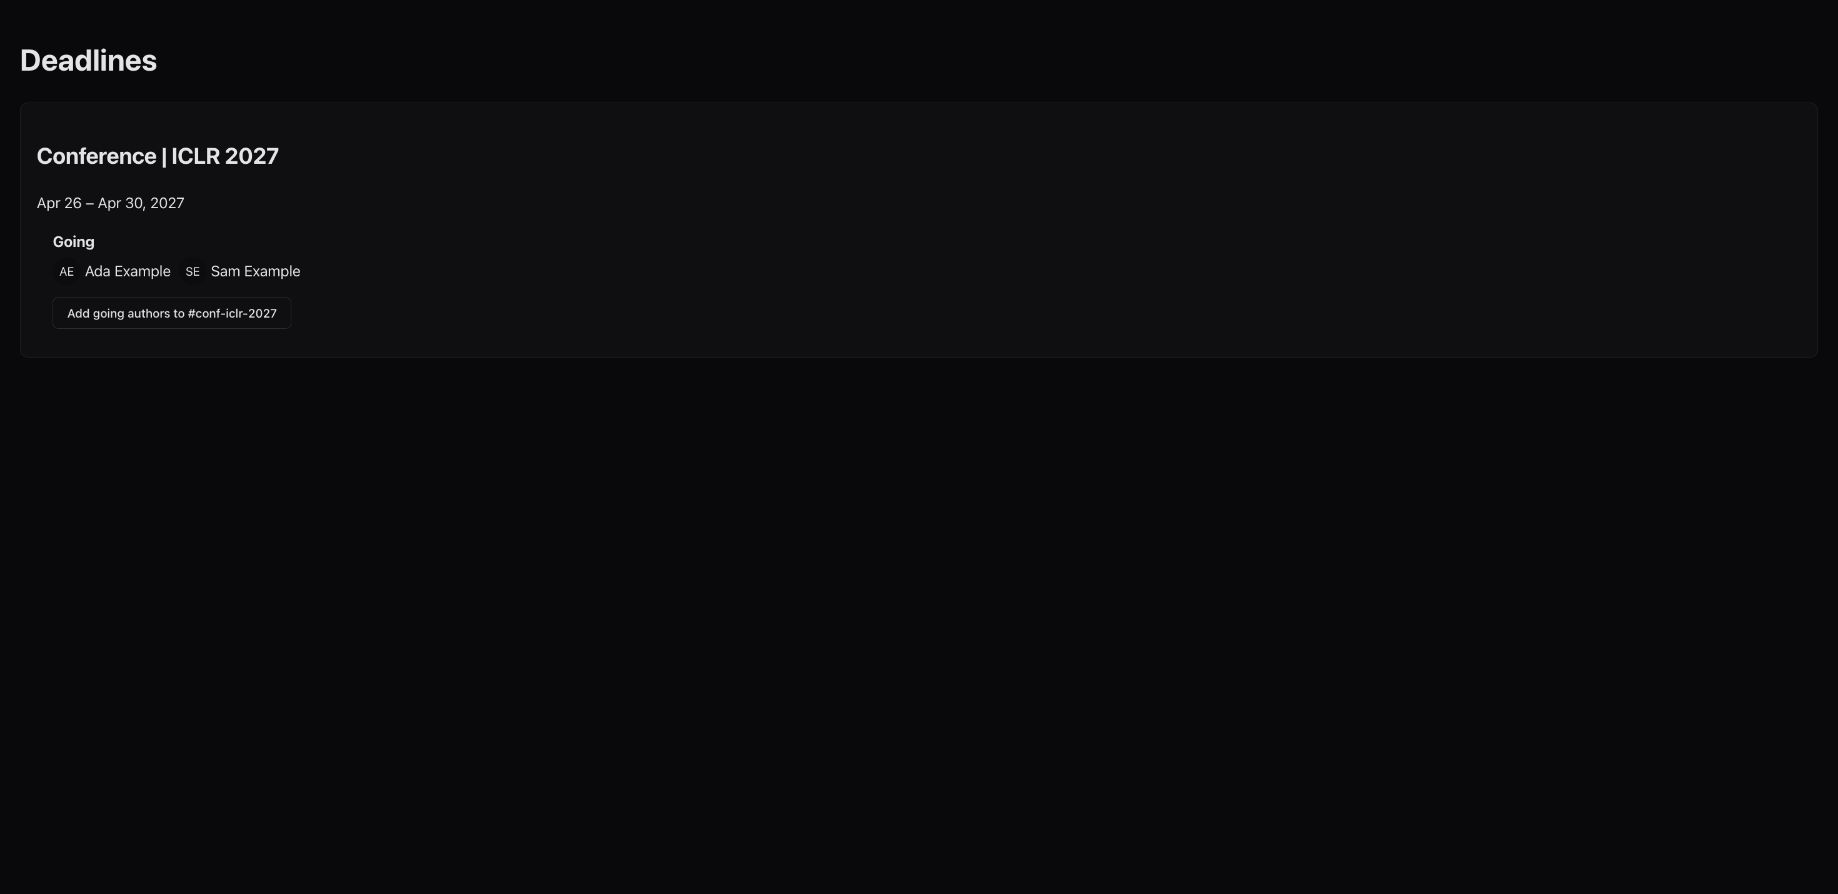
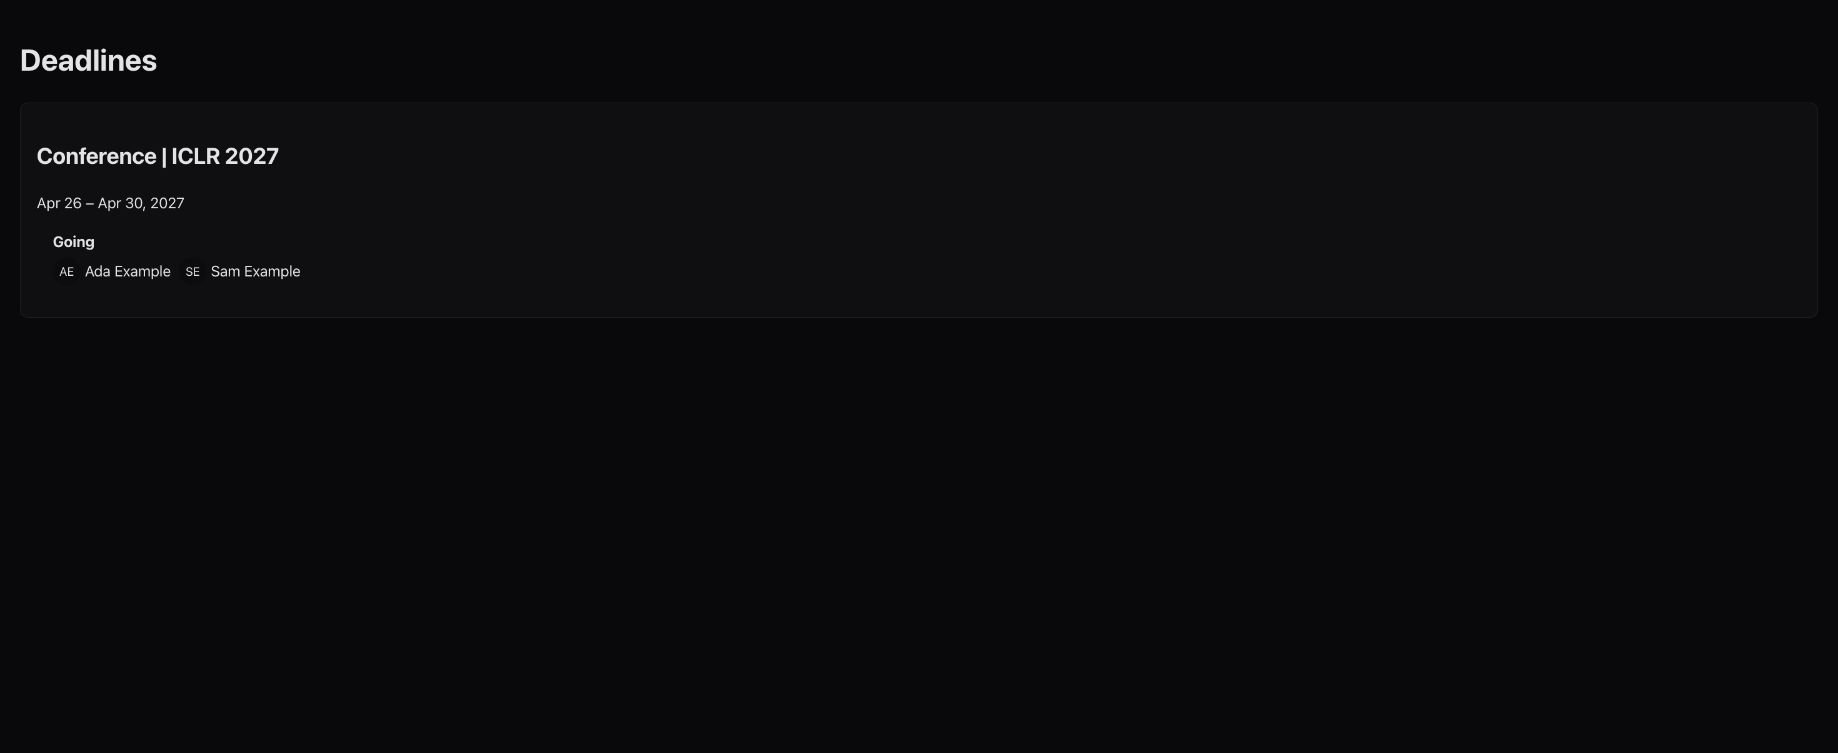
feat(adminbot): automatically invite accepted conference attendees

Changed region(s): [[0.0, 0.1527, 0.1551, 0.3665], [0.0, 0.0611, 0.093, 0.0916], [0.124, 0.2749, 0.1551, 0.3054]]

diff --git a/openclaw-adminbot/extensions/adminbot/src/kernel/service.paper-slots.test.ts b/openclaw-adminbot/extensions/adminbot/src/kernel/service.paper-slots.test.ts
@@ -2,7 +2,7 @@
 // what the global nudge actually sends.
 //
 // Its own file rather than more of service.test.ts, which is already the longest in the extension.
-import { describe, expect, it } from "vitest";
+import { describe, expect, it, vi } from "vitest";
 import { AdminBotService } from "./service.js";
 
 function unwrap<T>(
@@ -508,6 +508,11 @@ describe("the conference roll-call", () => {
         }),
       );
     }
+    await vi.waitFor(() =>
+      expect(deliveries.filter((entry) => entry.type === "slack.invite_to_channel")).toHaveLength(
+        2,
+      ),
+    );
     const rosters = unwrap(service.listConferenceRosters()).conferences;
     for (const roster of rosters)
       expect(unwrap(await service.inviteConferenceAttendees(roster.key))).toMatchObject({
@@ -519,13 +524,73 @@ describe("the conference roll-call", () => {
       deliveries
         .filter((entry) => entry.type === "slack.invite_to_channel")
         .map((entry) => entry.proposed_payload),
-    ).toEqual([
-      { channel: "conf-iclr-2027", user_id: "U-ADA" },
-      { channel: "conf-emnlp-2026", user_id: "U-ADA" },
-    ]);
+    ).toEqual(
+      expect.arrayContaining([
+        { channel: "conf-iclr-2027", user_id: "U-ADA" },
+        { channel: "conf-emnlp-2026", user_id: "U-ADA" },
+      ]),
+    );
     await service.inviteConferenceAttendees(rosters[0].key);
     expect(deliveries.filter((entry) => entry.type === "slack.invite_to_channel")).toHaveLength(2);
     expect((await service.inviteConferenceAttendees("missing:2026")).ok).toBe(false);
+  });
+
+  it("automatically invites when acceptance follows Going and keeps save failures separate", async () => {
+    const deliveries: unknown[] = [];
+    const service = new AdminBotService(undefined, {
+      executor: {
+        execute: async (proposal) => {
+          deliveries.push(proposal.proposed_payload);
+          throw new Error("Slack unavailable");
+        },
+      },
+    });
+    seed(service);
+    const paper = unwrap(
+      service.upsertPaper({
+        id: "auto",
+        title: "Synthetic",
+        authors: ["Ada Lovelace"],
+        author_links: [{ name: "Ada Lovelace", member_id: "ada" }],
+        current_step: "overleaf_writing",
+        first_author_member_id: "ada",
+      }),
+    );
+    unwrap(
+      service.setConferenceAttendee({
+        paperId: paper.id,
+        name: "Ada Lovelace",
+        memberId: "ada",
+        attending: "yes",
+        actorId: "ada",
+        privileged: false,
+      }),
+    );
+    expect(deliveries).toHaveLength(0);
+    const accepted = {
+      ...paper,
+      venue_decision: "accept" as const,
+      accepted_venue: "EMNLP",
+      accepted_year: 2026,
+      is_archival: true,
+      presentation_type: "poster" as const,
+    };
+    expect(service.upsertPaper(accepted).ok).toBe(true);
+    await vi.waitFor(() =>
+      expect(deliveries).toEqual([{ channel: "conf-emnlp-2026", user_id: "U-ADA" }]),
+    );
+    expect(service.upsertPaper(accepted).ok).toBe(true);
+    unwrap(
+      service.setConferenceAttendee({
+        paperId: paper.id,
+        name: "Ada Lovelace",
+        memberId: "ada",
+        attending: "no",
+        actorId: "ada",
+        privileged: false,
+      }),
+    );
+    expect(deliveries).toHaveLength(1);
   });
 
   it("puts every author on the card before anybody has been added by hand", () => {

diff --git a/openclaw-adminbot/ui/src/ui/adminbot/views/deadlines.ts b/openclaw-adminbot/ui/src/ui/adminbot/views/deadlines.ts
@@ -10,7 +10,6 @@ import {
   resolveAdminBotBaseUrl,
   loadStoredMemberSession,
   fetchConferenceRosters,
-  inviteConferenceAttendees,
   type ConferenceRoster,
 } from "../auth/session.ts";
 import {
@@ -1157,13 +1156,10 @@ class AdminbotDeadlinesView extends LitElement {
   private conferenceRosters: ConferenceRoster[] = [];
   private conferenceLoad = 0;
   private conferenceError = "";
-  private conferenceBusy = "";
-  private conferenceNotice = new Map<string, string>();
   private async loadConferenceRosters() {
     const generation = ++this.conferenceLoad;
     this.conferenceRosters = [];
     this.conferenceError = "";
-    this.conferenceNotice.clear();
     const token = loadStoredMemberSession()?.sessionToken;
     if (this.accessRole !== "admin" || !token) {
       this.requestUpdate();
@@ -1179,26 +1175,6 @@ class AdminbotDeadlinesView extends LitElement {
       this.conferenceError =
         "Conference attendance is unavailable. Check the backend release and connection.";
     this.requestUpdate();
-  }
-  private async addConferenceAuthors(key: string) {
-    const token = loadStoredMemberSession()?.sessionToken;
-    if (this.accessRole !== "admin" || !token || this.conferenceBusy) return;
-    this.conferenceBusy = key;
-    this.requestUpdate();
-    try {
-      const result = await inviteConferenceAttendees(token, this.conferenceBaseUrl, key);
-      this.conferenceNotice.set(
-        key,
-        result.ok
-          ? `${result.value.invited} invited · ${result.value.skipped} skipped · ${result.value.failed} failed`
-          : "Invites failed. Check the action audit and channel access before retrying.",
-      );
-    } catch {
-      this.conferenceNotice.set(key, "Invites failed. Check the action audit before retrying.");
-    } finally {
-      this.conferenceBusy = "";
-      this.requestUpdate();
-    }
   }
   accessRole: AccessRole = "anonymous";
   memberId = "";
@@ -3330,14 +3306,7 @@ class AdminbotDeadlinesView extends LitElement {
                 )}</span
               >
             </button>
-            ${attendance
-              ? renderConferenceAttendance(
-                  attendance,
-                  this.conferenceBusy === attendance.key,
-                  this.conferenceNotice.get(attendance.key) ?? "",
-                  () => void this.addConferenceAuthors(attendance.key),
-                )
-              : nothing}
+            ${attendance ? renderConferenceAttendance(attendance) : nothing}
             <div class="deadline-group__panel" id=${panelId} ?hidden=${!open}>
               ${notificationPolicy
                 ? html`<p class="deadline-group__shared-policy">

diff --git a/openclaw-adminbot/ui/src/ui/adminbot/views/deadlines.conference.test.ts b/openclaw-adminbot/ui/src/ui/adminbot/views/deadlines.conference.test.ts
@@ -5,7 +5,7 @@ import type { DeadlineVenue } from "../data/deadlines.ts";
 import { conferenceRosterFor, renderConferenceAttendance } from "./deadlines.conference.ts";
 
 describe("conference deadline attendance", () => {
-  it("matches exact aliases and year and shows only going authors alongside the Slack action", () => {
+  it("matches exact aliases and year and shows only going authors without a manual Slack button", () => {
     const roster = {
       key: "iclr:2027",
       venue: "ICLR 2027",
@@ -33,24 +33,12 @@ describe("conference deadline attendance", () => {
       conferenceRosterFor([{ ...venue, venue_family: "ACL", name: "ACL 2027" }], [roster]),
     ).toBeUndefined();
     const container = document.createElement("div");
-    let invites = 0;
-    render(
-      renderConferenceAttendance(roster, false, "", () => invites++),
-      container,
-    );
+    render(renderConferenceAttendance(roster), container);
     expect(container.textContent).toContain("Ada");
     expect(container.textContent).not.toContain("Bob");
     expect(container.textContent).not.toContain("Cora");
     expect(container.textContent).not.toContain("Not confirmed");
     expect(container.textContent).not.toContain("Not going");
-    expect(container.querySelector("button")?.textContent).toContain("#conf-iclr-2027");
-    container.querySelector("button")?.click();
-    expect(invites).toBe(1);
-    render(
-      renderConferenceAttendance(roster, true, "0 invited · 1 failed", () => invites++),
-      container,
-    );
-    expect(container.querySelector("button")?.disabled).toBe(true);
-    expect(container.querySelector('[role="status"]')?.textContent).toContain("1 failed");
+    expect(container.querySelector("button")).toBeNull();
   });
 });

diff --git a/openclaw-adminbot/extensions/adminbot/src/kernel/service.ts b/openclaw-adminbot/extensions/adminbot/src/kernel/service.ts
@@ -5930,6 +5930,7 @@ export class AdminBotService {
         at: now,
       });
     }
+    this.syncConferenceChannel(stored);
     return { ok: true, status: 200, payload: stored };
   }
 
@@ -7192,6 +7193,7 @@ export class AdminBotService {
       actor: params.actorId,
       details: { paper_id: params.paperId, attending: params.attending },
     });
+    this.syncConferenceChannel(paper);
     return { ok: true, status: 200, payload: { attendee } };
   }
 
@@ -7243,7 +7245,15 @@ export class AdminBotService {
     return { ok: true, status: 200, payload: { conferences } };
   }
 
-  /** Explicit admin action; uses the existing Slack proposal/approval/execution gate. */
+  private syncConferenceChannel(paper: AdminBotPaperRecord): void {
+    const key = paperConferenceKey(paper);
+    if (!key) return;
+    // Persist the approved proposal before yielding. Slack outages must not fail a paper save;
+    // the existing action audit retains failures for retry, and execution deduplicates saves.
+    void this.inviteConferenceAttendees(key).catch(() => {});
+  }
+
+  /** Uses the existing Slack proposal/approval/execution gate. */
   async inviteConferenceAttendees(conferenceKey: string): Promise<
     AdminBotServiceResponse<{
       channel: string;

diff --git a/openclaw-adminbot/ui/src/ui/adminbot/auth/session.ts b/openclaw-adminbot/ui/src/ui/adminbot/auth/session.ts
@@ -4876,26 +4876,6 @@ export async function fetchConferenceRosters(
   return { ok: true, value: body?.conferences ?? [] };
 }
 
-export async function inviteConferenceAttendees(
-  sessionToken: string,
-  baseUrl: string,
-  key: string,
-): Promise<AuthResult<{ channel: string; invited: number; skipped: number; failed: number }>> {
-  const result = await authedJson(
-    baseUrl,
-    `/papers/conference-rosters/${encodeURIComponent(key)}/channel-invites`,
-    "POST",
-    sessionToken,
-    {},
-  );
-  if ("unreachable" in result) return { ok: false, kind: "unreachable" };
-  if (!result.response.ok) return { ok: false, ...calendarFailure(result.response, result.body) };
-  return {
-    ok: true,
-    value: result.body as { channel: string; invited: number; skipped: number; failed: number },
-  };
-}
-
 /** Not going is the absence of a row, never a value. Withdrawing deletes; see deleteConferenceTrip. */
 export type ConferenceTripIntent = "going" | "undecided";
 export type ConferenceFundingNeed = "none" | "fee_only" | "flight_only" | "full_travel";

diff --git a/openclaw-adminbot/ui/src/ui/adminbot/views/deadlines.conference.ts b/openclaw-adminbot/ui/src/ui/adminbot/views/deadlines.conference.ts
@@ -29,19 +29,8 @@ export function conferenceRosterFor(
   return undefined;
 }
 
-export function renderConferenceAttendance(
-  roster: ConferenceRoster,
-  busy: boolean,
-  notice: string,
-  invite: () => void,
-) {
+export function renderConferenceAttendance(roster: ConferenceRoster) {
   const labels = { yes: "Going" };
-  const venue = roster.venue
-    .replace(new RegExp(`\\b${roster.year}\\b`, "gu"), "")
-    .trim()
-    .toLowerCase()
-    .replace(/[^a-z0-9]+/gu, "-")
-    .replace(/^-|-$/gu, "");
   return html`<section
     class="deadline-conference-attendance"
     aria-label=${`${roster.label} attendance`}
@@ -76,11 +65,5 @@ export function renderConferenceAttendance(
           </div>`
         : nothing;
     })}
-    ${roster.going_count
-      ? html`<button class="btn" type="button" ?disabled=${busy} @click=${invite}>
-          ${busy ? "Adding…" : `Add going authors to #conf-${venue}-${roster.year}`}
-        </button>`
-      : nothing}
-    ${notice ? html`<p role="status">${notice}</p>` : nothing}
   </section>`;
 }
